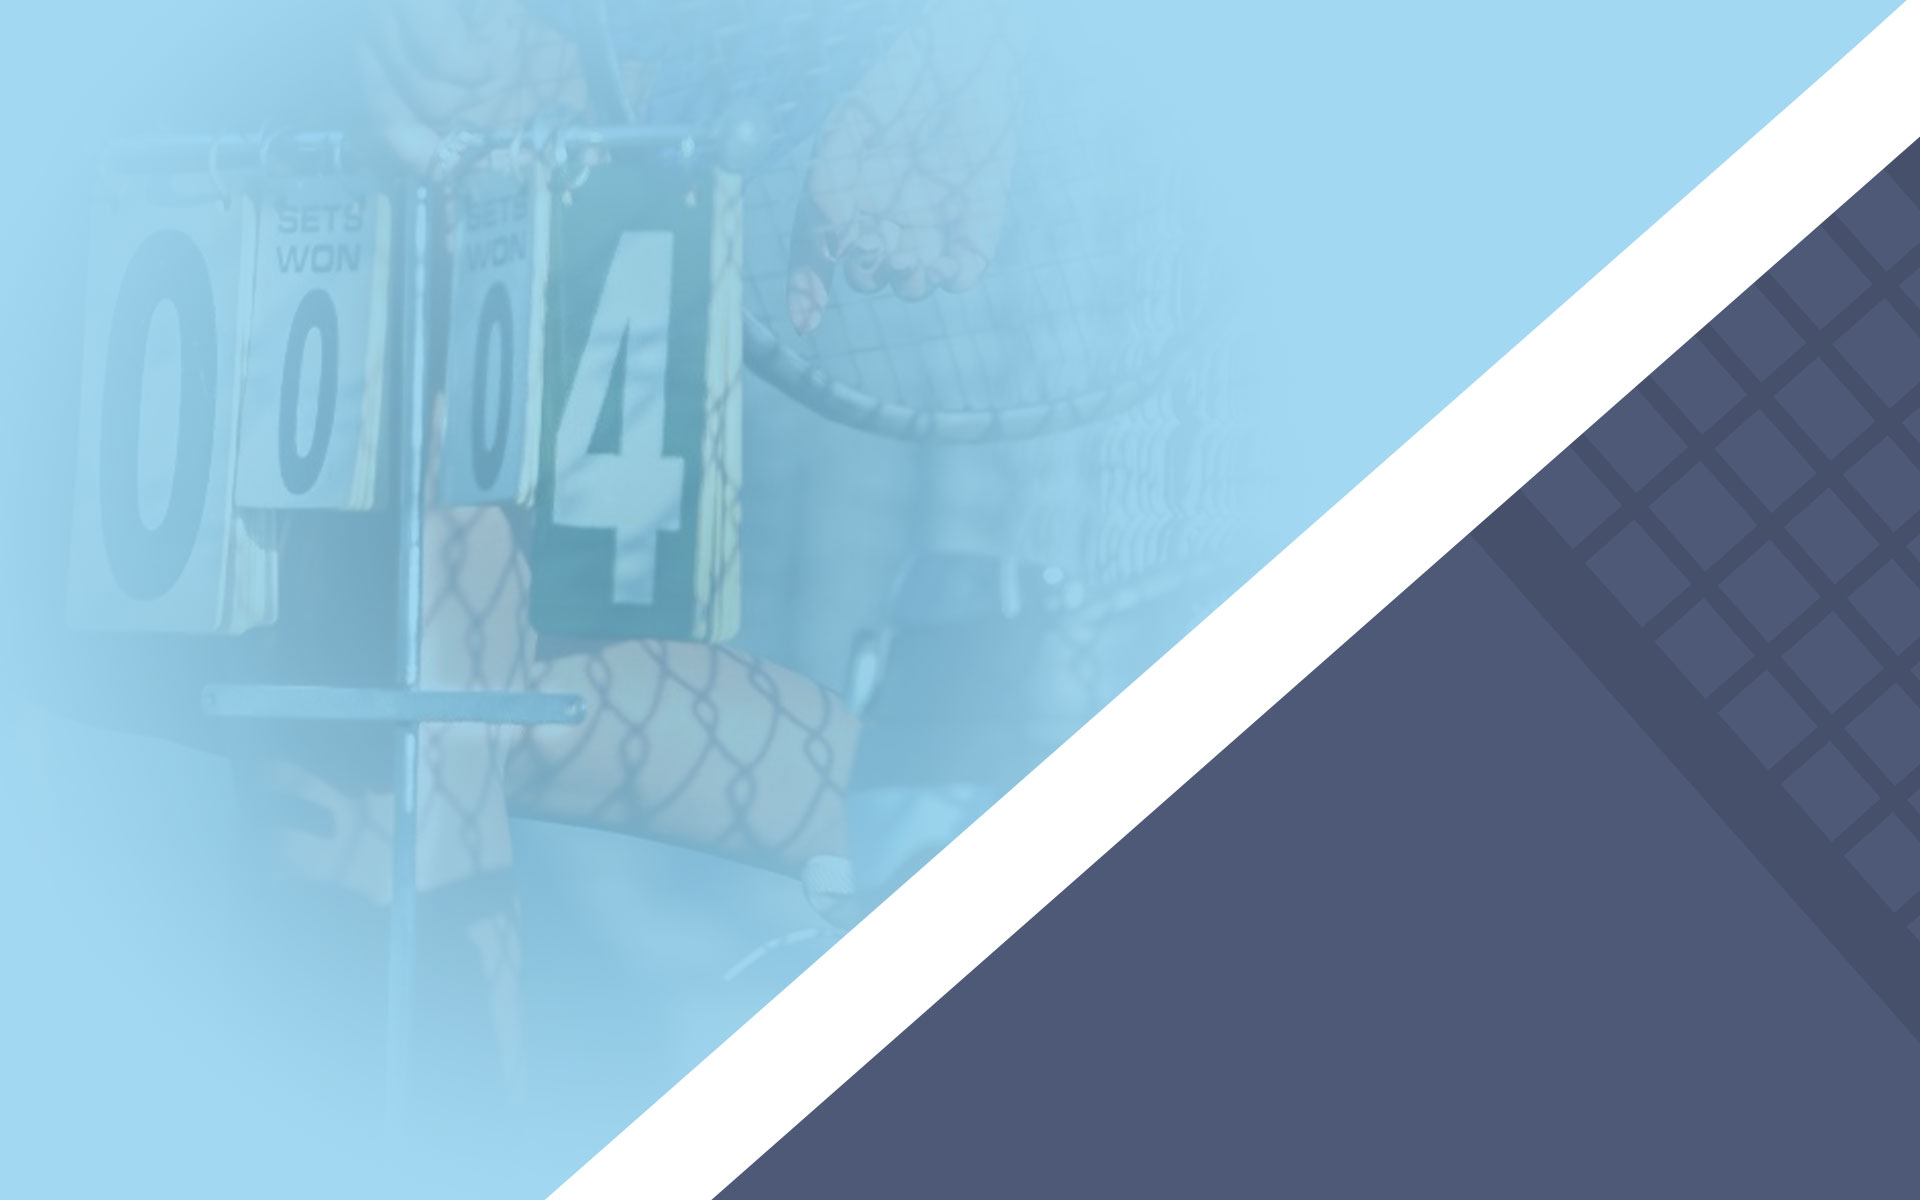
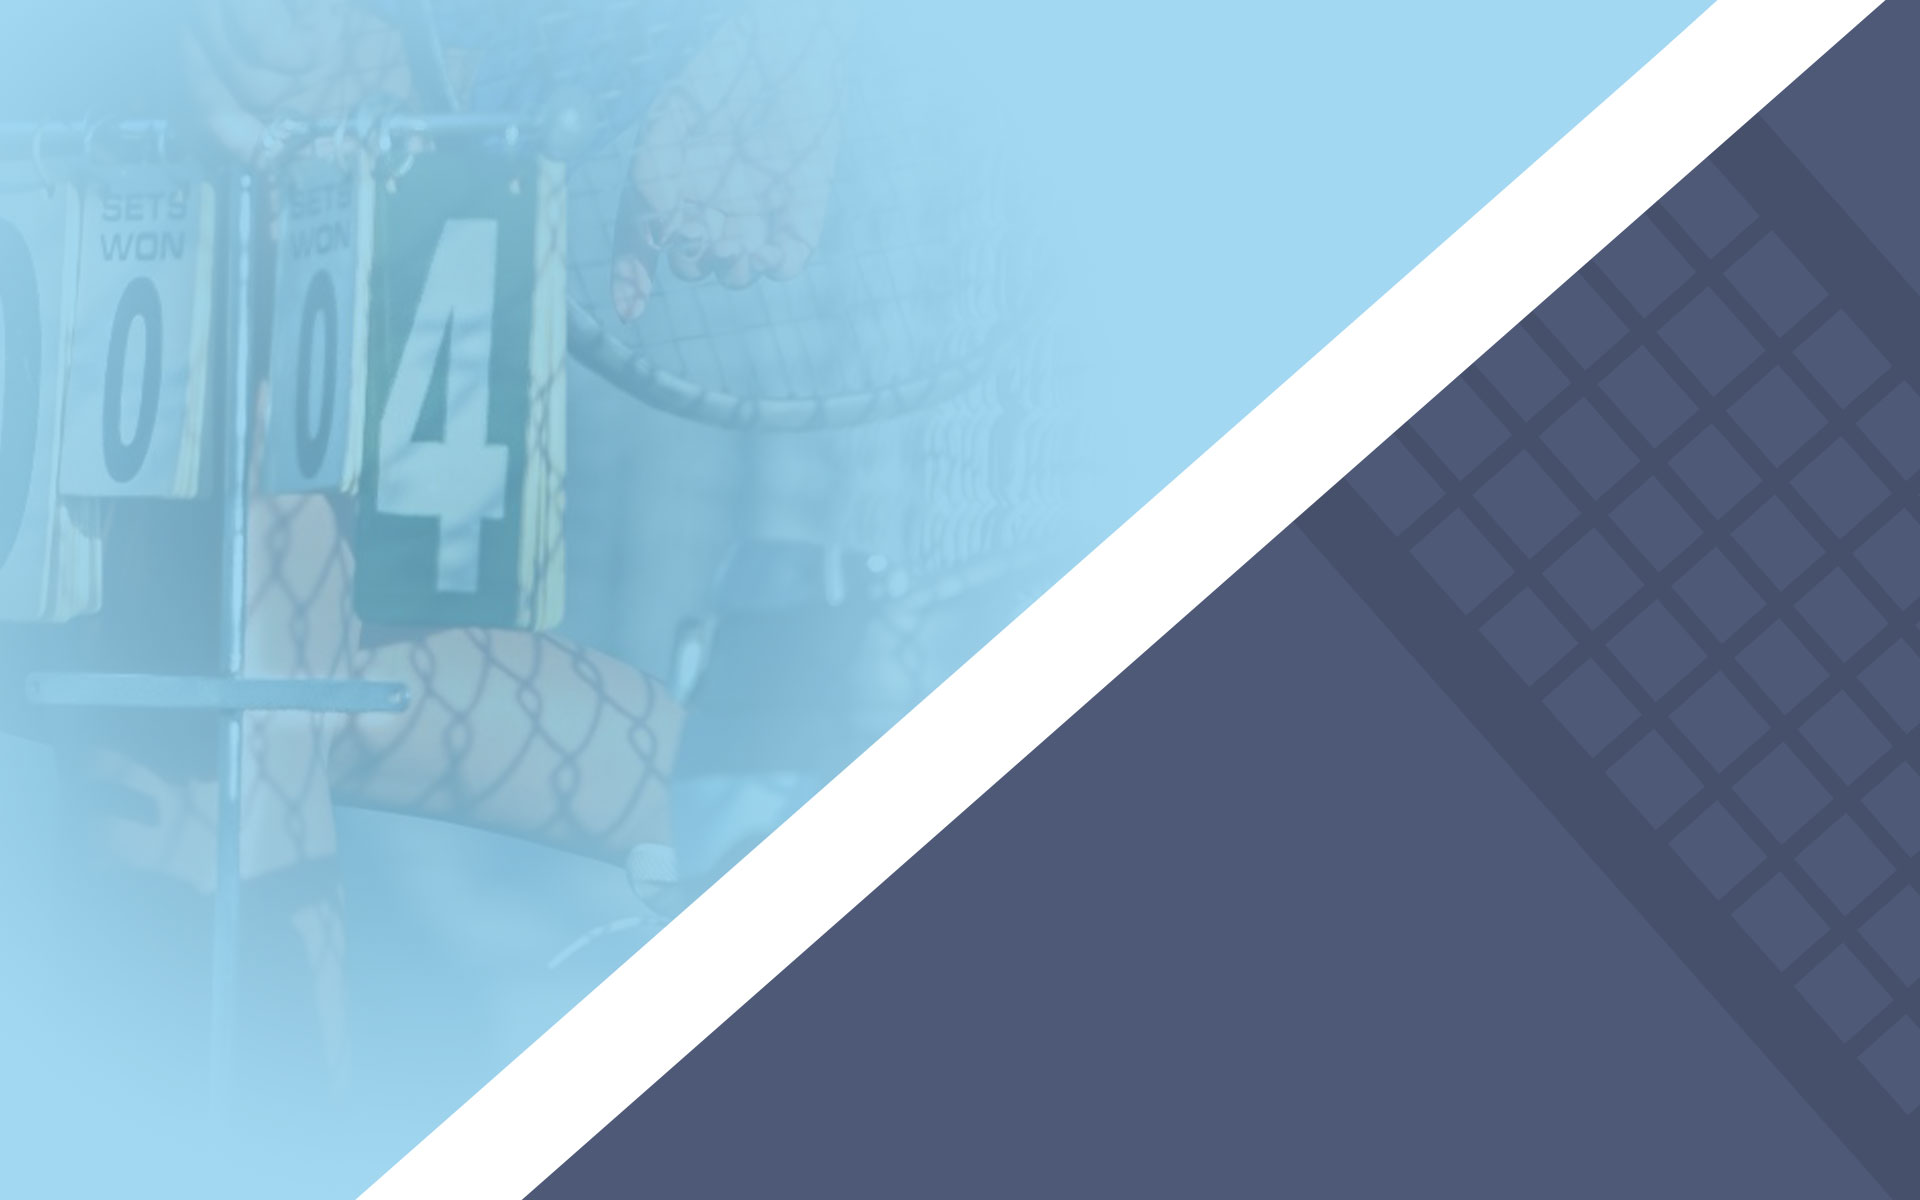
Fix KSM hero

diff --git a/app/pages/index.vue b/app/pages/index.vue
@@ -33,15 +33,16 @@ const heroSlides = computed<HeroSlide[]>(() => [
     srcMobile: '/img/home/stage-ksm-2026-mobile.jpg',
     imageClassMobile: 'object-[center_top]',
     title: 'Kreis- und Stadtmeisterschaften 2026',
-    titleClass: 'text-white font-bold tracking-tight text-2xl sm:text-3xl md:text-4xl lg:text-[42px] xl:text-5xl leading-tight max-w-md md:max-w-lg lg:max-w-xl',
+    titleClass: 'text-white font-bold tracking-tight text-2xl sm:text-3xl md:text-4xl lg:text-[40px] xl:text-[48px] leading-tight text-center md:text-right',
     subtitle: 'Der Erwachsenen • 29.08. – 13.09.2026',
-    subtitleClass: 'text-brand-light-300 font-bold uppercase tracking-wider text-sm sm:text-lg md:text-xl',
+    subtitleClass: 'text-brand-light-300 font-bold uppercase tracking-wider text-sm sm:text-lg md:text-xl text-center md:text-right',
     description: 'TC Hardt 1976 e.V. • Birkmannsweg 16, 41169 Mönchengladbach',
-    descriptionClass: 'text-brand-light-200 font-medium text-xs sm:text-sm md:text-base',
+    descriptionClass: 'text-brand-light-200 font-medium text-xs sm:text-sm md:text-base text-center md:text-right',
     contentPosition: 'bottom-right',
     contentPositionMobile: 'bottom-center',
     contentPositionTablet: 'bottom-right',
-    ctaPrimary: { variant: 'brand-dark', label: 'Alle Events ansehen', to: localePath('events') },
+    contentWrapperClass: 'max-w-none w-full lg:max-w-xl xl:max-w-2xl lg:ml-auto lg:mr-0',
+    ctaPrimary: { variant: 'brand-dark', label: 'Alle Infos zum Turnier', to: localePath('ksm-2026') },
     ctaSecondary: { variant: 'highlight', label: 'Zur Anmeldung (tennis.de)', to: 'https://www.tennis.de/spielen/spielbetrieb/turniersuche.html#detail/783899', target: '_blank' }
   },
   {
@@ -225,7 +226,7 @@ const newsItems = computed(() => {
         </div>
       </div>
     </Section>
- 
+
     <MemorialSection />
 
     <Section

diff --git a/app/components/base/Hero.vue b/app/components/base/Hero.vue
@@ -351,15 +351,19 @@ const onSlideChange = (swiper: any) => {
         />
 
         <div
-          class="relative z-10 h-full w-full flex flex-col p-6 sm:p-12 lg:px-24 transition-all duration-500"
+          class="relative z-10 h-full w-full flex flex-col p-6 sm:p-10 lg:px-16 transition-all duration-500"
           :class="[
-            { 'pt-[70px] lg:pt-[120px] pb-12': !removeTopPadding && slides.length >= 1 },
+            { 'pt-[70px] lg:pt-[120px] pb-10 lg:pb-14': !removeTopPadding && slides.length >= 1 },
             getAlignmentClasses(slide)
           ]"
         >
           <div
-            class="w-full max-w-7xl flex flex-col shrink-0"
-            :class="[getMarginClasses(slide), getAlignmentClasses(slide), slide.contentWrapperClass]"
+            class="w-full flex flex-col shrink-0"
+            :class="[
+              slide.contentWrapperClass || 'max-w-7xl',
+              getMarginClasses(slide),
+              getAlignmentClasses(slide)
+            ]"
           >
             <slot :name="slide.slotName || 'content'" :slide="slide">
 
